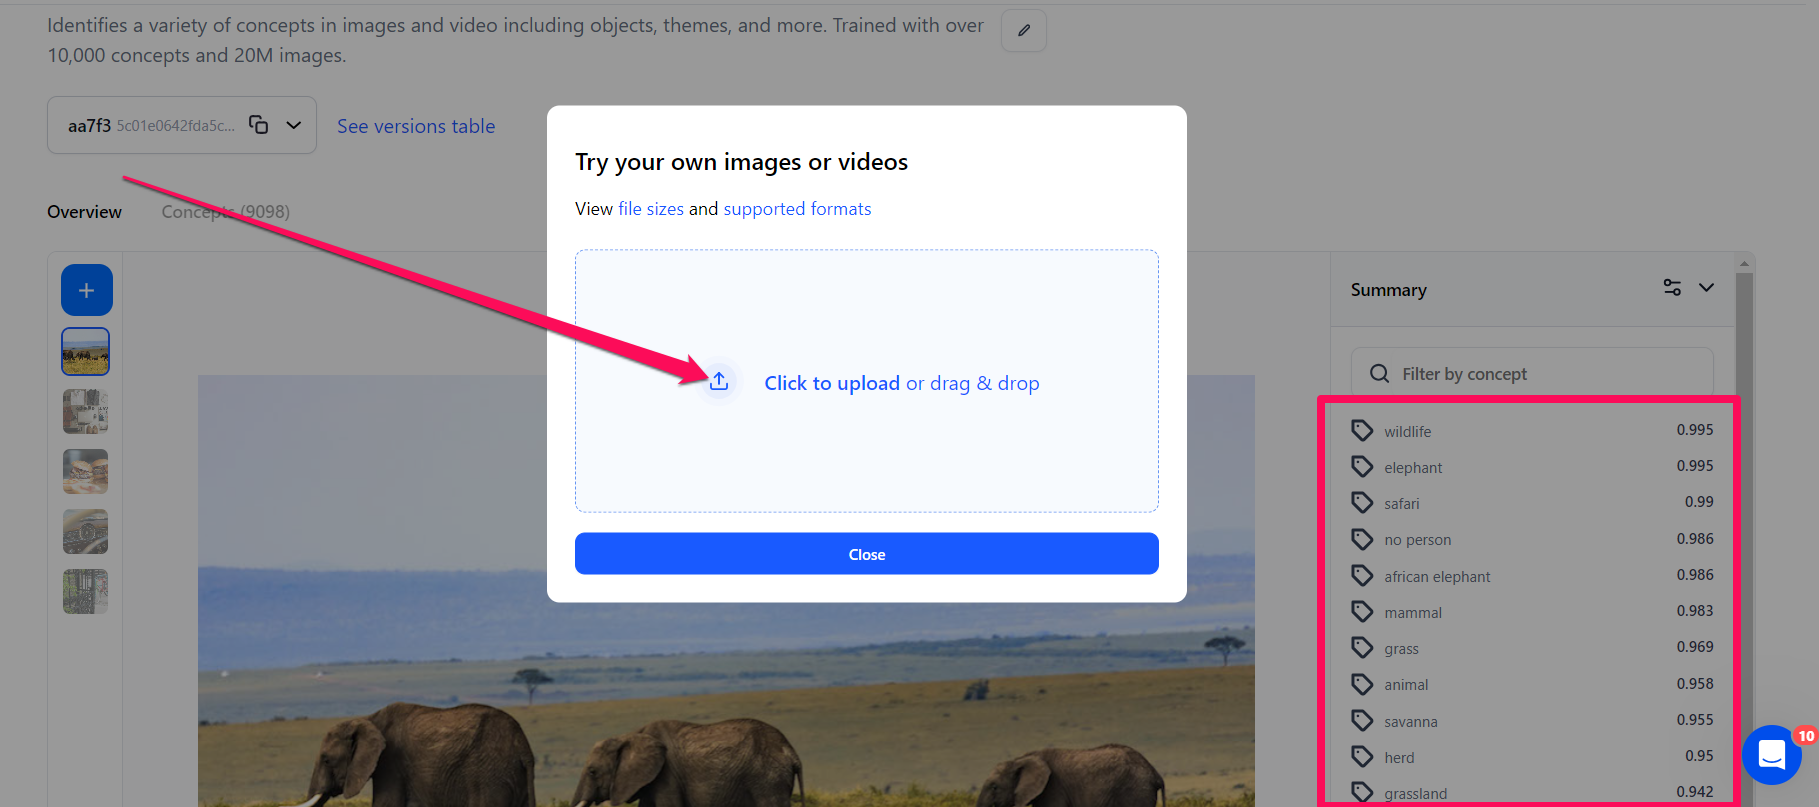
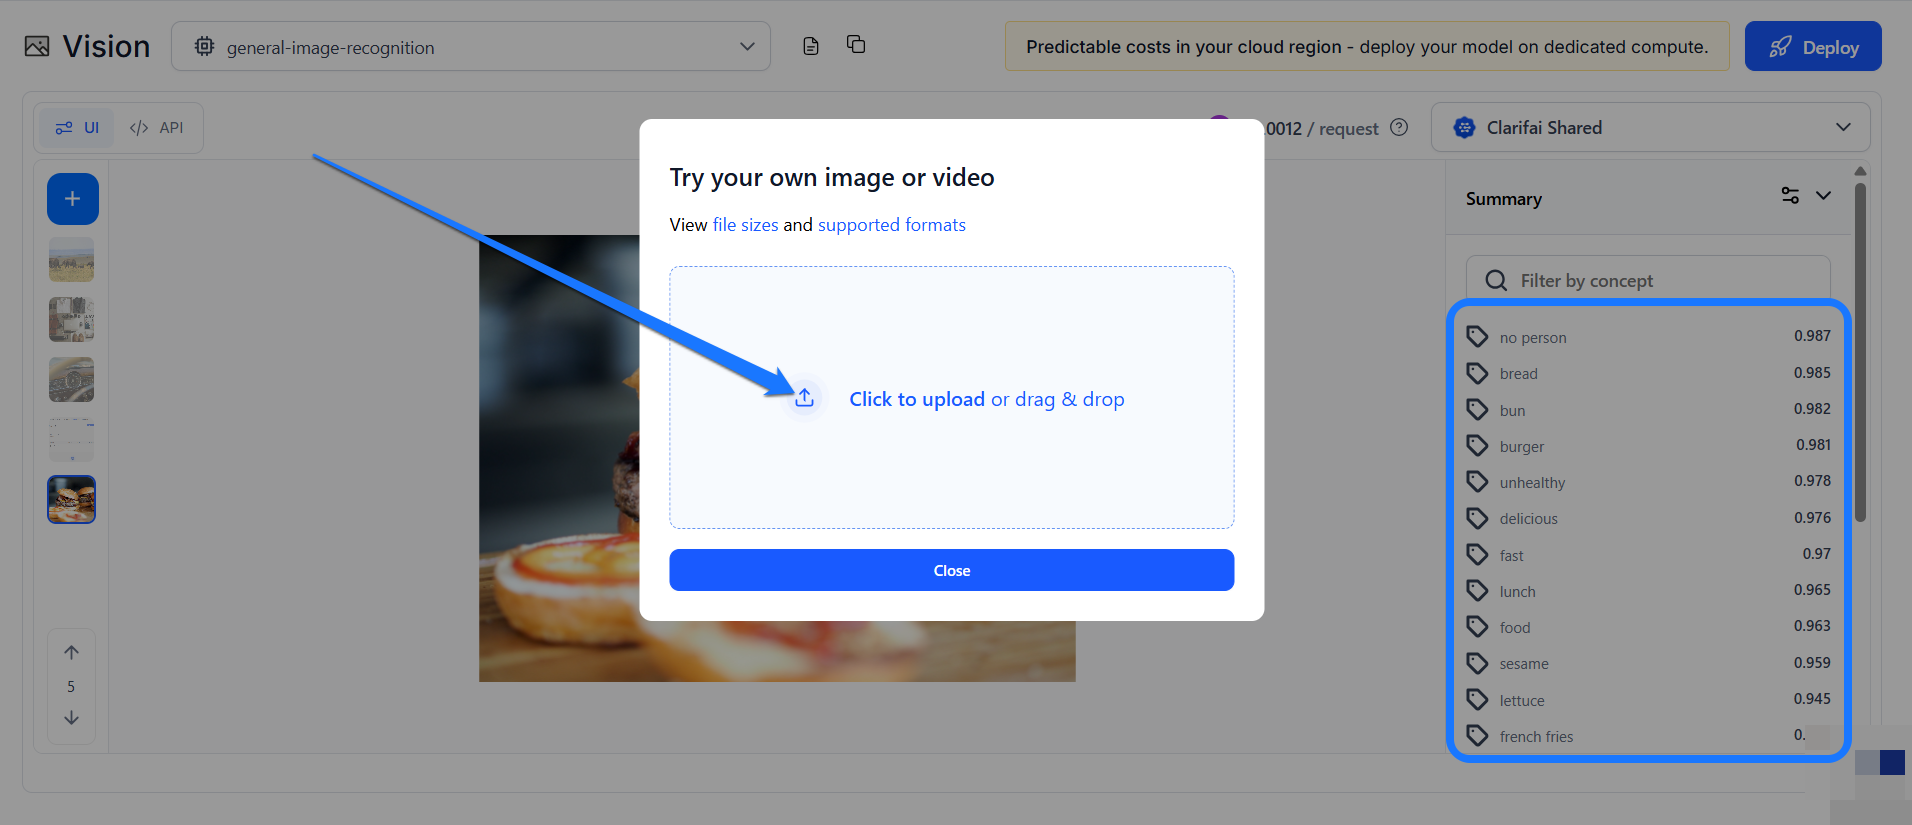
updated inference via ui

diff --git a/docs/compute/inference/clarifai/ui.md b/docs/compute/inference/clarifai/ui.md
@@ -9,32 +9,83 @@ toc_max_heading_level: 4
 **Generate model or workflow predictions on the UI**
 <hr />
 
-You can perform predictions using your deployed models directly through the User Interface (UI) — no code required. This method is ideal for quick testing, demos, and visual validation of your model's performance. 
+You can perform predictions using a model directly through the Clarifai's User Interface (UI) — no code required. This method is ideal for quick testing, demos, and visual validation of your model's performance. 
 
-You can simply upload an input (such as image, text, or video) and view the output predictions in real-time within an intuitive user experience.
+You can simply upload an input (such as text, image, or video) and view the output predictions in real-time within an intuitive user experience.
 
-:::tip Deploy Model
+The Clarifai [Community](https://clarifai.com/explore) platform offers a wide selection of the latest AI models that you can use to run inferences. You can also [build and upload](https://docs.clarifai.com/compute/upload/) your own custom models and use them for predictions.
 
-Before making a prediction using our Compute Orchestration capabilities, ensure that your model has been [deployed](https://docs.clarifai.com/compute/deployments/deploy-model), [as explained here](https://docs.clarifai.com/compute/models/inference/). 
+:::info Predict With Compute Orchestration
 
+If you want to make predictions using Clarifai’s Compute Orchestration capabilities, you’ll need to set up a cluster, create a nodepool, and [deploy](https://docs.clarifai.com/compute/deployments/deploy-model) your model to it. Once deployed, you can select this deployment for running inferences. If you don’t configure a custom deployment, the platform will use the default Clarifai Shared deployment where applicable, [as explained here](https://docs.clarifai.com/compute/inference/#predict-with-compute-orchestration).
 
 :::
 
-## Predictions Within Model Playground
+## Generate Chat Predictions
 
-### Prediction With Legacy Method
+The Clarifai platform lets you generate human-like text in a conversational format using large language models (LLMs). You simply provide text as input, known as a prompt, and these models generate coherent, context-aware text-based responses.
 
-Let's say you want to use the pre-built Clarifai's [general-image-recognition](https://clarifai.com/clarifai/main/models/general-image-recognition) model to identify and classify a variety of concepts in images. 
+These models are ideal for tasks such as answering questions, summarizing content, generating code, or engaging in dialogue. 
 
-To do so, navigate to the model’s viewer screen and click the blue **Try your own images or videos** button. A modal will pop up, providing a convenient interface for adding input data and examining predictions.
+### Step 1: Get a Model
 
-![](/img/community_2/model_predictions.png)
+After finding a language model you want to use, go to its individual page and click the **Open in Playground** button located in the upper-right corner.
 
-The modal provides three distinct options for making predictions.
+For this example, we'll use the [Llama-3.2-3B-Instruct](https://clarifai.com/meta/Llama-3/models/Llama-3_2-3B-Instruct) model.
+
+![](/img/community_2/ui_inference_1.png)
+
+### Step 2: Run Your Inference
+
+You’ll be taken to Clarifai’s AI Playground — an intuitive interface that lets you quickly run inferences with models and explore the platform’s full capabilities without any additional setup.
+
+![](/img/community_2/ui_inference_2.png)
+
+> _Alternatively, you can access the Playground directly from the top navigation bar. Once inside, use the model selector in the upper-left corner to search and choose the model you want to use for inference._
+
+> **Note:** If you click the **View Model Page** icon (the file symbol) next to the model selector, you’ll be taken to the model’s individual page, where you can view detailed information about it. Next to it, you’ll find the **Copy Model URL** icon, which allows you to quickly copy the model’s URL for easy sharing or reference.
+
+In the message box at the bottom of the Playground, enter your desired prompt to generate text using the selected model. You can also choose from the predefined prompt examples provided.
+
+Once your input is ready, click the **arrow icon** in the message box to submit your request.
+
+The model’s response will stream in real time, allowing you to see the output as it’s being generated — just like a live chat experience. Clarifai’s streaming capabilities allow language models to return responses token by token, enabling natural and interactive conversations.
+
+:::note
+
+For these examples, we’re using the default deployment settings (**Clarifai Shared**) and default [inference parameters](https://docs.clarifai.com/compute/inference/advanced). You can customize these settings as needed to suit more advanced use cases.
+
+:::
+
+> _You can also toggle the button in the upper-left section of the Playground to view ready-to-use API code snippets in multiple programming languages — just copy and paste them into your project._
+
+> ![](/img/community_2/ui_inference_3.png)
+
+## Generate Visual Predictions
+
+The Clarifai platform allows you to leverage powerful AI models to analyze and understand visual data such as images and videos. By providing visual input, you can prompt a model to analyze the content and generate an output based on its learned visual understanding.
+
+Depending on the model type, the output may include [image classifications](https://docs.clarifai.com/create/models/deep-fine-tuning/visual-classifier), [object detections](https://docs.clarifai.com/create/models/deep-fine-tuning/visual-detector), [segmentation masks](https://docs.clarifai.com/create/models/deep-fine-tuning/visual-segmenter), or even AI-generated visuals.
+
+
+### Step 1: Get a Model
+
+After finding a visual model you want to use, go to its individual page and click the **Open in Playground** button located in the upper-right corner, as illustrated earlier.
+
+For this example, we'll use the [general-image-recognition](https://clarifai.com/clarifai/main/models/general-image-recognition) model to identify and classify a variety of concepts in images.
+
+### Step 2: Run Your Inference
+
+While on the AI Playground, click the plus (**+**) blue button on the left side. A pop-up will appear, offering the following options for making predictions:
+
+- Try your own image or video
+- Batch predict on app inputs
+
+![](/img/community_2/ui_inference_4.png)
 
 #### Try Your Own Images or Videos
 
-This option lets you add an input and see its predictions without leaving that model viewer screen. If you click the button, a small window will pop up, allowing you to upload your input.
+This option lets you add an input and see its predictions without leaving the Playground screen. If you click the button, a small window will pop up, allowing you to upload your input.
 
 ![](/img/community_2/model_predictions-2.png)
 
@@ -42,39 +93,21 @@ After uploading the image, the model will analyze it and return a list of concep
 
 #### Batch Predict on App Inputs
 
-This option lets you select an app and a dataset. If you click the button, a small window will pop up, allowing you to choose an app and a dataset with the inputs you want to view their predictions. 
+This option lets you select an app and a [dataset](https://docs.clarifai.com/create/datasets/). If you click the button, a small window will pop up, allowing you to choose an app and a dataset with the inputs you want to view their predictions. 
 
 ![](/img/community_2/model_predictions-3.png)
 
 After selecting an app and a dataset, click the **Try Inputs** button. 
 
-You’ll be redirected to the Input-Viewer screen with the default mode set to Predict, allowing you to see the predictions on an input based on your selections.
+You’ll be redirected to the [single Input-Viewer](https://docs.clarifai.com/create/labeling/ui/#single-input-viewer) screen with the default mode set to **Predict**, allowing you to see the predictions on an input based on your selections.
 
 ![](/img/community_2/model_predictions-4.png)
 
-#### Add Public Preview Examples
 
-This option lets model owners add public preview examples. It's only visible on the model viewer screen of a model you own. 
+## Generate Multimodal Predictions
 
-If you click the button, a small window will pop up, allowing you to add public prediction examples for anyone who wants to see how your model works. 
+https://docs.clarifai.com/compute/inference/clarifai/api#multimodal-predictions
 
-![](/img/community_2/model_predictions-5.png)
-
-### Prediction With Compute Orchestration
-
-To make predictions this way, go to your model’s playground page and click on the **Deployments** tab. 
-
-Here, you’ll find a **Deployments & Usage** table listing all deployments associated with the model, including details such as the cluster and nodepool. You can also sort the table alphabetically (A–Z or Z–A) based on your preferences.
-
-![ ](/img/compute-orchestration/compute-16.png)
-
-To select a deployment, click the **Deployment** button. A dropdown list will appear, showing your available deployments. Choose the one you want to use to direct traffic to a specific cluster and nodepool. 
-
-Once you’ve selected a deployment ID, go to the **Overview** pane to use it for making prediction requests.
-
-When inferencing using a deployed model, the request is routed to the nodepool within the cloud region specified in the cluster, and the model’s predictions are returned as output in real time.
-
-![ ](/img/compute-orchestration/compute-21.png)
 
 ## Predictions Within Input-Viewer
 

diff --git a/docs/getting-started/quickstart-playground.md b/docs/getting-started/quickstart-playground.md
@@ -61,7 +61,7 @@ The results will be streamed directly on the interface, allowing you to see the 
 
 :::tip
 
-For this example, we're using the default settings for deployment (`Clarifai Shared`), inference parameters, and others. You can [customize](https://docs.clarifai.com/compute/models/inference/ui/#prediction-with-compute-orchestration) these settings as needed for more advanced use cases.
+For this example, we're using the default settings for deployment ([`Clarifai Shared`](https://docs.clarifai.com/compute/deployments/clusters-nodepools)) and [inference parameters](https://docs.clarifai.com/compute/inference/advanced). You can customize these settings as needed for more advanced use cases.
 
 :::
 

diff --git a/docs/compute/deployments/deploy-model.md b/docs/compute/deployments/deploy-model.md
@@ -17,7 +17,7 @@ With model deployment, you can quickly take a trained model and set it up for in
 
 :::tip 
 
-Learn how deployment works when making a prediction using our Compute Orchestration capabilities [here](https://docs.clarifai.com/compute/models/inference/). 
+Learn how deployment works when making a prediction using our Compute Orchestration capabilities [here](https://docs.clarifai.com/compute/inference/#predict-with-compute-orchestration). 
 
 :::
 
